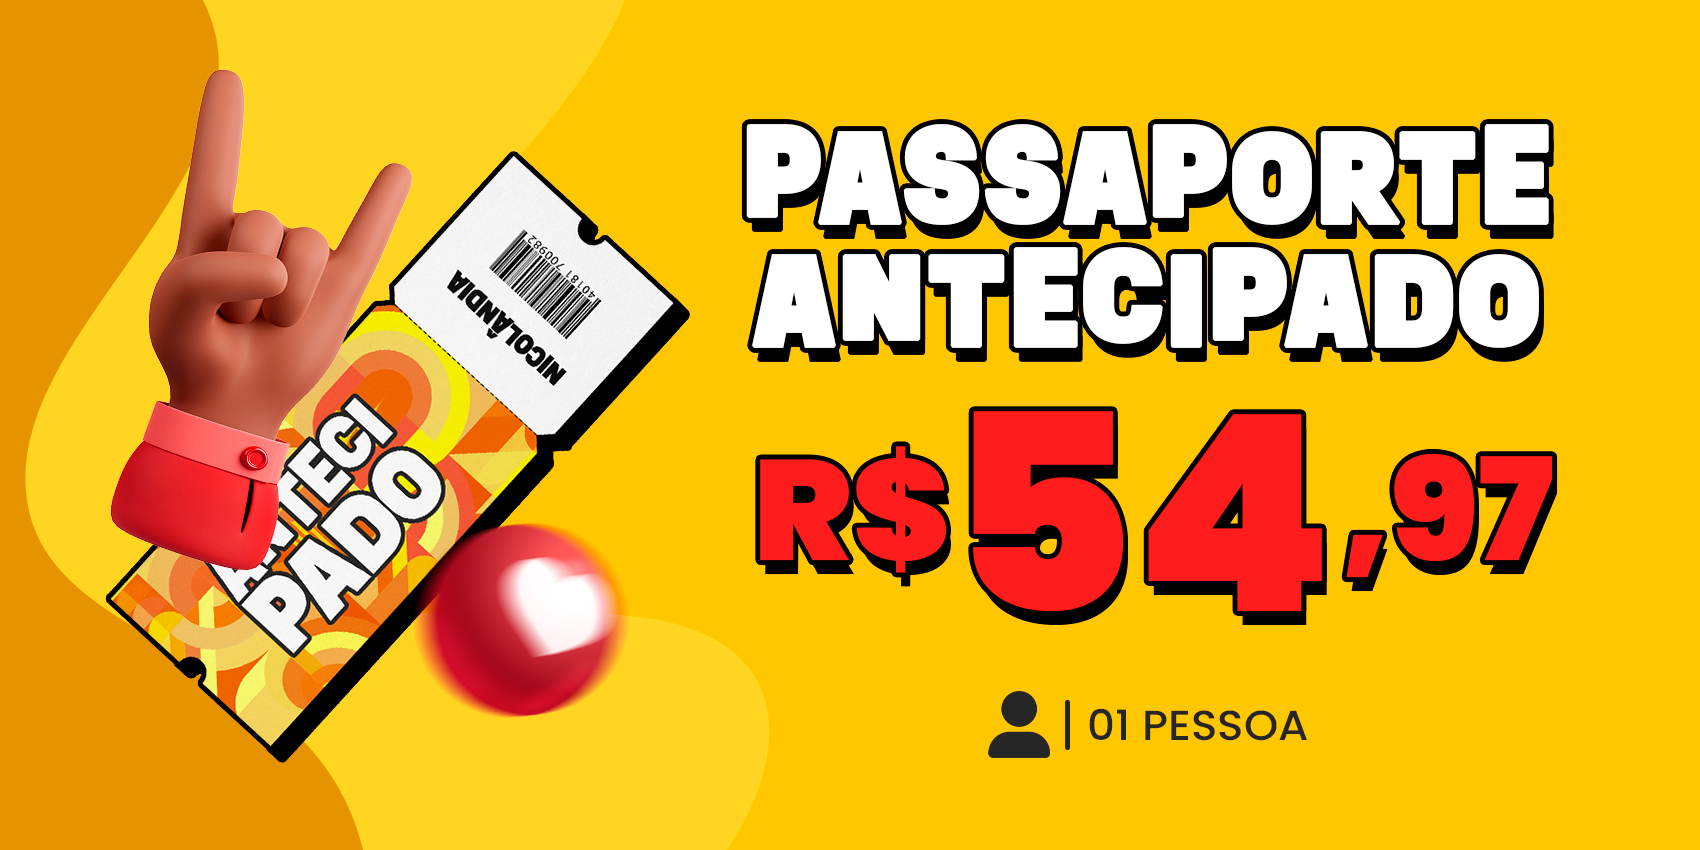
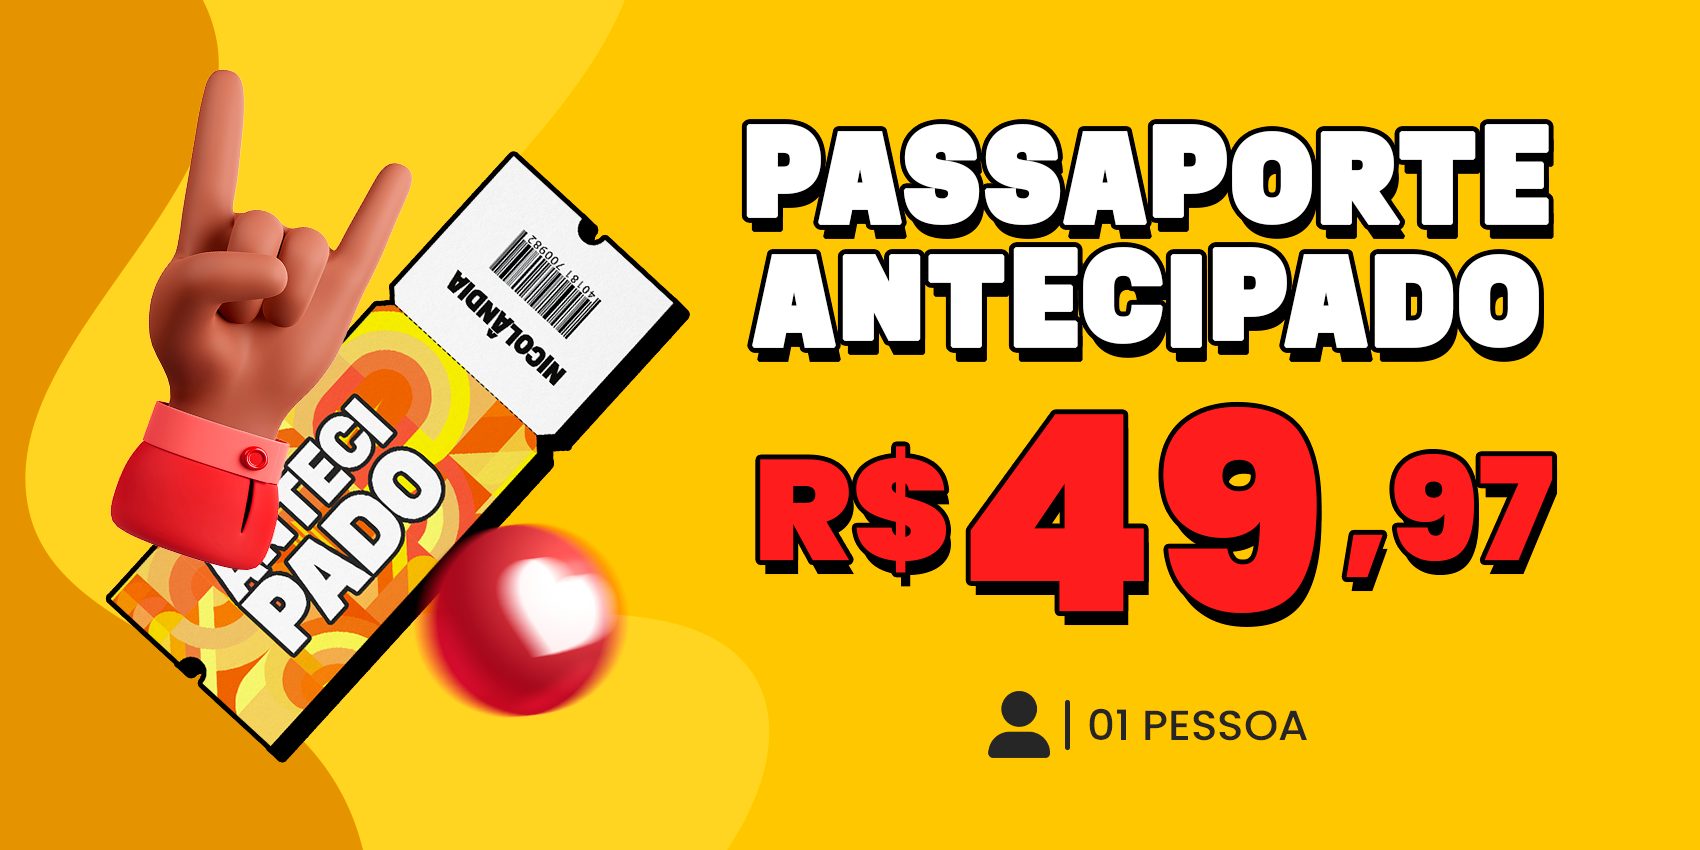
change ticket price

Changed region(s): [[0.5612, 0.4588, 0.7794, 0.7341]]

diff --git a/src/pages/passaportes.tsx b/src/pages/passaportes.tsx
@@ -44,7 +44,7 @@ export default function PassaportsPage() {
               <Ticket
                 id={7}
                 name="Passaporte Antecipado"
-                price={5497}
+                price={4997}
                 banner={PassaporteAntecipado}
                 quantity={1}
                 reference={7697}

diff --git a/src/components/organisms/Tickets.tsx b/src/components/organisms/Tickets.tsx
@@ -36,7 +36,7 @@ export default function Tickets() {
           <Ticket
             id={7}
             name="Passaporte Antecipado"
-            price={5497}
+            price={4997}
             banner={PassaporteAntecipado}
             quantity={1}
             reference={7697}
